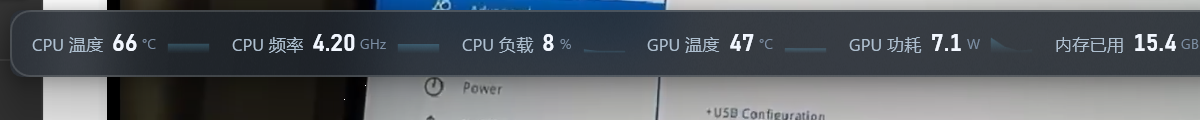
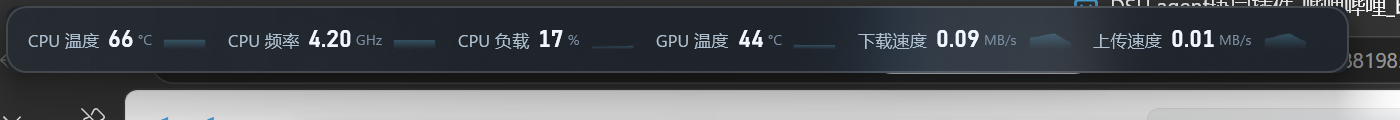
feat: 增加上下行网速监控 (v1.1.0)
- 新增 NetworkSampler：按网卡累计字节差值与 EMA 平滑计算下载/上传速率，不依赖驱动、无需管理员
- SensorEngine 新增聚合项 agg.net.down / agg.net.up（单位 MB/s，曲线基线固定 0）
- AppSettings 新增 NetDefaultsApplied：老配置首次启动自动补一次网速指标
- 设置面板调试参数新增 --scroll-list（列表滚到底）
- docs 截图、README、版本号更新到 1.1.0

diff --git a/src/Sensors/NetworkSampler.cs b/src/Sensors/NetworkSampler.cs
@@ -1,0 +1,111 @@
+using System.Diagnostics;
+using System.Net.NetworkInformation;
+
+namespace CpuGlassMonitor.Sensors;
+
+/// <summary>
+/// 网速采样：把所有「已启用、非回环」网卡的累计字节数做差值，换算成每秒字节数。
+/// 不依赖 LibreHardwareMonitor（它在 Windows 上不提供网络吞吐），也不需要管理员权限。
+/// </summary>
+public sealed class NetworkSampler
+{
+    private const double EmaAlpha = 0.55;      // 平滑系数，避免数字每秒跳
+    private const double MaxGapSeconds = 5.0;  // 间隔太大（睡眠/休眠）时重新取基准，不产生尖峰
+
+    private readonly Stopwatch _clock = Stopwatch.StartNew();
+    private NetworkInterface[] _interfaces = Array.Empty<NetworkInterface>();
+    private int _refreshAfter;
+
+    private long _lastSent = -1;
+    private long _lastReceived = -1;
+    private double _lastSeconds = -1;
+    private double _down;
+    private double _up;
+
+    /// <summary>当前下行速度（字节/秒）。</summary>
+    public double DownBytesPerSecond => _down;
+
+    /// <summary>当前上行速度（字节/秒）。</summary>
+    public double UpBytesPerSecond => _up;
+
+    /// <summary>采一帧。第一次调用只记录基准，返回 0。</summary>
+    public void Sample()
+    {
+        try
+        {
+            if (_interfaces.Length == 0 || --_refreshAfter <= 0)
+            {
+                RefreshInterfaces();
+                _refreshAfter = 30;
+            }
+
+            long sent = 0;
+            long received = 0;
+            foreach (NetworkInterface ni in _interfaces)
+            {
+                try
+                {
+                    IPInterfaceStatistics stats = ni.GetIPStatistics();
+                    sent += stats.BytesSent;
+                    received += stats.BytesReceived;
+                }
+                catch
+                {
+                    // 网卡刚消失/驱动异常：跳过这一块
+                }
+            }
+
+            double now = _clock.Elapsed.TotalSeconds;
+            if (_lastSeconds < 0)
+            {
+                _lastSent = sent;
+                _lastReceived = received;
+                _lastSeconds = now;
+                return;
+            }
+
+            double dt = now - _lastSeconds;
+            if (dt <= 0.05) return;
+
+            double downInstant = Math.Max(0, received - _lastReceived) / dt;
+            double upInstant = Math.Max(0, sent - _lastSent) / dt;
+
+            _lastSent = sent;
+            _lastReceived = received;
+
+            if (dt > MaxGapSeconds)
+            {
+                // 从睡眠里醒来：直接以本次为基准，别把累计差值算成一个巨大的尖峰
+                _lastSeconds = now;
+                _down = downInstant;
+                _up = upInstant;
+                return;
+            }
+
+            _lastSeconds = now;
+            _down = _down * (1 - EmaAlpha) + downInstant * EmaAlpha;
+            _up = _up * (1 - EmaAlpha) + upInstant * EmaAlpha;
+        }
+        catch
+        {
+            // 采样失败不影响其它传感器
+        }
+    }
+
+    private void RefreshInterfaces()
+    {
+        try
+        {
+            _interfaces = NetworkInterface.GetAllNetworkInterfaces()
+                .Where(ni => ni.OperationalStatus == OperationalStatus.Up)
+                .Where(ni => ni.NetworkInterfaceType != NetworkInterfaceType.Loopback)
+                .Where(ni => ni.NetworkInterfaceType != NetworkInterfaceType.Tunnel)
+                .Where(ni => ni.Supports(NetworkInterfaceComponent.IPv4) || ni.Supports(NetworkInterfaceComponent.IPv6))
+                .ToArray();
+        }
+        catch
+        {
+            _interfaces = Array.Empty<NetworkInterface>();
+        }
+    }
+}

diff --git a/src/Sensors/SensorEngine.cs b/src/Sensors/SensorEngine.cs
@@ -23,6 +23,9 @@ public static class AggKeys
     public const string RamLoad = "agg.ram.load";
     public const string RamUsed = "agg.ram.used";
     public const string RamFree = "agg.ram.free";
+
+    public const string NetDown = "agg.net.down";
+    public const string NetUp = "agg.net.up";
 }
 
 /// <summary>一次采样的结果。</summary>
@@ -45,6 +48,7 @@ public sealed class SensorEngine : IDisposable
     private readonly Dictionary<string, (IHardware Hardware, ISensor Sensor)> _rawSensors = new(StringComparer.Ordinal);
     private readonly Dictionary<string, MetricSpec> _catalog = new(StringComparer.Ordinal);
     private readonly List<(string Key, Func<SensorReading, double?> Compute)> _aggregates = new();
+    private readonly NetworkSampler _network = new();
 
     private Computer? _computer;
     private Thread? _worker;
@@ -209,6 +213,11 @@ public sealed class SensorEngine : IDisposable
             if (v.HasValue && !double.IsNaN(v.Value)) reading.Values[key] = v.Value;
         }
 
+        // 网速：由程序自己按累计字节差值算，和 LHM 无关（LHM 在 Windows 上没有网络吞吐）
+        _network.Sample();
+        reading.Values[AggKeys.NetDown] = _network.DownBytesPerSecond;
+        reading.Values[AggKeys.NetUp] = _network.UpBytesPerSecond;
+
         // 温度不是一上电就能读到：ring0 驱动装好后第一次 Update 往往还是 null。
         // 所以这个标记必须是「只要读到过一次就为真」，否则 UI 会一直停在"需要管理员权限"。
         if (!CpuTemperatureAvailable &&
@@ -287,6 +296,7 @@ public sealed class SensorEngine : IDisposable
         BuildCpuAggregates(cpu);
         BuildGpuAggregates(gpu);
         BuildRamAggregates();
+        BuildNetworkAggregates();
 
         CpuTemperatureAvailable =
             first.Get(AggKeys.CpuTempMax).HasValue || first.Get(AggKeys.CpuTempAvg).HasValue;
@@ -653,8 +663,39 @@ public sealed class SensorEngine : IDisposable
         }
     }
 
-    private List<(string Key, ISensor Sensor)> Find(IHardware hw, SensorType type)
+    /// <summary>网络上下行速度：值以「字节/秒」存，显示时换算成 MB/s。</summary>
+    private void BuildNetworkAggregates()
     {
+        const double BytesToMegabytes = 1.0 / (1024 * 1024);
+
+        AddAggregate(new MetricSpec
+        {
+            Key = AggKeys.NetDown,
+            Group = "网络",
+            SubGroup = "速度",
+            Label = "下载速度",
+            Unit = "MB/s",
+            Scale = BytesToMegabytes,
+            Digits = 2,
+            DefaultOn = true,
+            SparkMin = 0
+        }, r => r.Get(AggKeys.NetDown));
+
+        AddAggregate(new MetricSpec
+        {
+            Key = AggKeys.NetUp,
+            Group = "网络",
+            SubGroup = "速度",
+            Label = "上传速度",
+            Unit = "MB/s",
+            Scale = BytesToMegabytes,
+            Digits = 2,
+            DefaultOn = true,
+            SparkMin = 0
+        }, r => r.Get(AggKeys.NetUp));
+    }
+
+    private List<(string Key, ISensor Sensor)> Find(IHardware hw, SensorType type)    {
         var list = new List<(string Key, ISensor Sensor)>();
         foreach (ISensor sensor in hw.Sensors)
         {

diff --git a/src/App.xaml.cs b/src/App.xaml.cs
@@ -161,8 +161,26 @@ public partial class App : Application
                         .Select(s => s.Key)
                         .ToList();
                     Settings.DefaultsApplied = true;
+                    Settings.NetDefaultsApplied = true;
                     SettingsStore.Save(Settings);
                     Shell?.ApplySettings(Settings);
+                }
+                else if (!Settings.NetDefaultsApplied)
+                {
+                    // 1.1 新增网速指标：老配置里没有，默认补上（只补一次）
+                    bool added = false;
+                    foreach (string key in new[] { AggKeys.NetDown, AggKeys.NetUp })
+                    {
+                        if (Engine.Catalog.ContainsKey(key) && !Settings.SelectedKeys.Contains(key))
+                        {
+                            Settings.SelectedKeys.Add(key);
+                            added = true;
+                        }
+                    }
+
+                    Settings.NetDefaultsApplied = true;
+                    SettingsStore.Save(Settings);
+                    if (added) Shell?.ApplySettings(Settings);
                 }
             }
             catch (Exception ex)
@@ -245,6 +263,12 @@ public partial class App : Application
                             if (Environment.GetCommandLineArgs().Any(a => a.Equals("--scroll-end", StringComparison.OrdinalIgnoreCase)))
                             {
                                 window.ScrollOptionsToEnd();
+                                window.UpdateLayout();
+                            }
+
+                            if (Environment.GetCommandLineArgs().Any(a => a.Equals("--scroll-list", StringComparison.OrdinalIgnoreCase)))
+                            {
+                                window.ScrollListToEnd();
                                 window.UpdateLayout();
                             }
 

diff --git a/src/Core/AppSettings.cs b/src/Core/AppSettings.cs
@@ -13,6 +13,12 @@ public sealed class AppSettings
     /// <summary>是否已经写入过默认指标（首次启动后置为 true，避免覆盖用户选择）。</summary>
     public bool DefaultsApplied { get; set; }
 
+    /// <summary>
+    /// 是否已经把「网速」指标补进老配置（1.1 新增）。只补一次，
+    /// 之后用户在设置里取消勾选也不会再被强行加回来。
+    /// </summary>
+    public bool NetDefaultsApplied { get; set; }
+
     /// <summary>亚克力底色浓度 0..1（越大越不透明）。</summary>
     public double TintStrength { get; set; } = 0.55;
 

diff --git a/src/Ui/SettingsWindow.xaml.cs b/src/Ui/SettingsWindow.xaml.cs
@@ -349,6 +349,15 @@ public partial class SettingsWindow : Window
         OptionsScroll.ScrollToEnd();
     }
 
+    /// <summary>把左侧指标列表滚到底（仅供截图/自动化验证使用）。</summary>
+    public void ScrollListToEnd()
+    {
+        if (_view is null) return;
+
+        object? last = _view.Cast<object>().LastOrDefault();
+        if (last != null) MetricListBox.ScrollIntoView(last);
+    }
+
     private void Save_Click(object sender, RoutedEventArgs e)
     {
         AppSettings built = BuildSettings();

diff --git a/README.md b/README.md
@@ -1,6 +1,6 @@
 # CpuGlassMonitor · CPU 玻璃监控
 
-透明毛玻璃风格的 CPU/GPU 硬件监控悬浮窗：**温度、频率、核心电压、负载、功耗、显存、内存**都能看，
+透明毛玻璃风格的 CPU/GPU 硬件监控悬浮窗：**温度、频率、核心电压、负载、功耗、显存、内存、上下行网速**都能看，
 参数可以自由勾选，窗口可置顶、可锁定、可鼠标穿透，带托盘常驻。
 
 两种排布随参数多少自由切换：**竖排·多行卡片**（默认，适合贴在桌面角落）和**横排·单行长条**
@@ -8,7 +8,8 @@
 
 - 界面：WPF 分层窗口（`AllowsTransparency`，自绘 per-pixel alpha）+ Win11 DWM 圆角/暗色模式，
   低透明度区间叠加系统亚克力（`SetWindowCompositionAttribute`）做磨砂
-- 采集：LibreHardwareMonitorLib 0.9.4（ring0 驱动读 CPU 温度/频率/电压；GPU 走 NVAPI，不需要驱动）
+- 采集：LibreHardwareMonitorLib 0.9.4（ring0 驱动读 CPU 温度/频率/电压；GPU 走 NVAPI，不需要驱动）；
+  网速由程序自己按网卡累计字节差值算（不依赖驱动，也不需要管理员权限）
 - 体积：发布后约 1.6 MB（框架依赖，需要已安装 .NET 10 桌面运行时）
 - 语言：C# / net10.0-windows，x64
 
@@ -101,6 +102,8 @@ dotnet publish -c Release -r win-x64 --self-contained false -o ..\dist
 | `--shot-menu <png>` | 同上，但渲染右键菜单 |
 | `--no-elevate` | 不尝试提权，直接以降级模式运行 |
 | `--fake-temps` | 往读数里塞假温度/频率（只有界面调试用，取不到真实温度时验证样式） |
+| `--scroll-end` | 配合 `--shot-settings`：先把右侧选项区滚到底再截图 |
+| `--scroll-list` | 配合 `--shot-settings`：先把左侧指标列表滚到底再截图 |
 
 ## 目录结构
 
@@ -118,6 +121,13 @@ CpuGlassMonitor/
 ```
 
 ## 更新日志
+
+### v1.1.0
+
+- 新增 **网络上下行速度**（`下载速度` / `上传速度`，单位 MB/s）：取所有已启用、非回环网卡的累计字节差值，
+  按刷新间隔换算成每秒速率并做平滑；不需要管理员权限，也不占驱动。
+- 老配置升级后会自动把这两项加到面板上（只补一次，之后你取消勾选就不会再回来）。
+- 网速曲线的基线固定为 0，采样间隔过大（睡眠唤醒）时自动重取基准，不会出现一个巨大尖峰。
 
 ### v1.0.1
 
